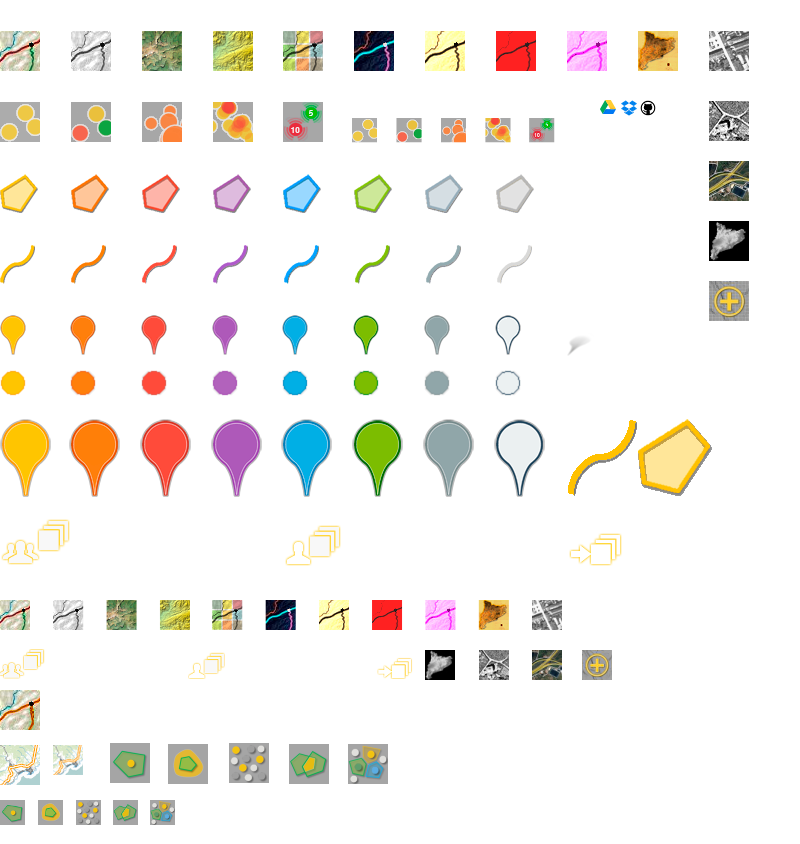
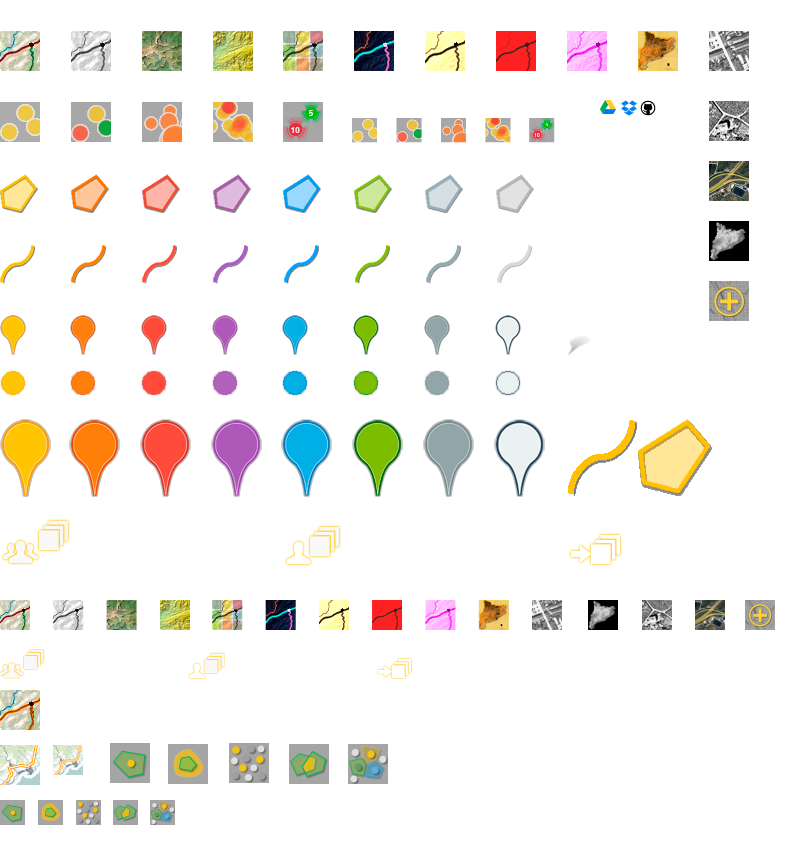
fix images para pantallas pequeñas

Changed region(s): [[0.5312, 0.7085, 0.9688, 0.8318]]

diff --git a/geocatweb/css/mapa.css b/geocatweb/css/mapa.css
@@ -3605,7 +3605,7 @@ i.fa {
 	}
 	
 	.div_fons_5 {
-		background: url("images/galeria_icones.png") no-repeat scroll -212px
+		background: url("images/galeria_icones.png") no-repeat scroll -745px
 			-600px rgba(208, 208, 208, 0.5);
 		cursor: pointer;
 	}
@@ -3653,20 +3653,20 @@ i.fa {
 		cursor: pointer;
 	}	
 	.div_fons_13 {
-		background: url("images/galeria_icones.png") no-repeat scroll -530px
-			-650px rgba(208, 208, 208, 0.5);
+		background: url("images/galeria_icones.png") no-repeat scroll -695px
+			-600px rgba(208, 208, 208, 0.5);
 		margin-left: 2px;
 		cursor: pointer;
 	}
 	.div_fons_14 {
-		background: url("images/galeria_icones.png") no-repeat scroll -477px
-			-650px rgba(208, 208, 208, 0.5);
+		background: url("images/galeria_icones.png") no-repeat scroll -642px
+			-600px rgba(208, 208, 208, 0.5);
 		margin-left: 2px;
 		cursor: pointer;
 	}
 	.div_fons_15 {
-		background: url("images/galeria_icones.png") no-repeat scroll -424px
-			-650px rgba(208, 208, 208, 0.5);
+		background: url("images/galeria_icones.png") no-repeat scroll -588px
+			-600px rgba(208, 208, 208, 0.5);
 		margin-left: 2px;
 		cursor: pointer;
 	}
